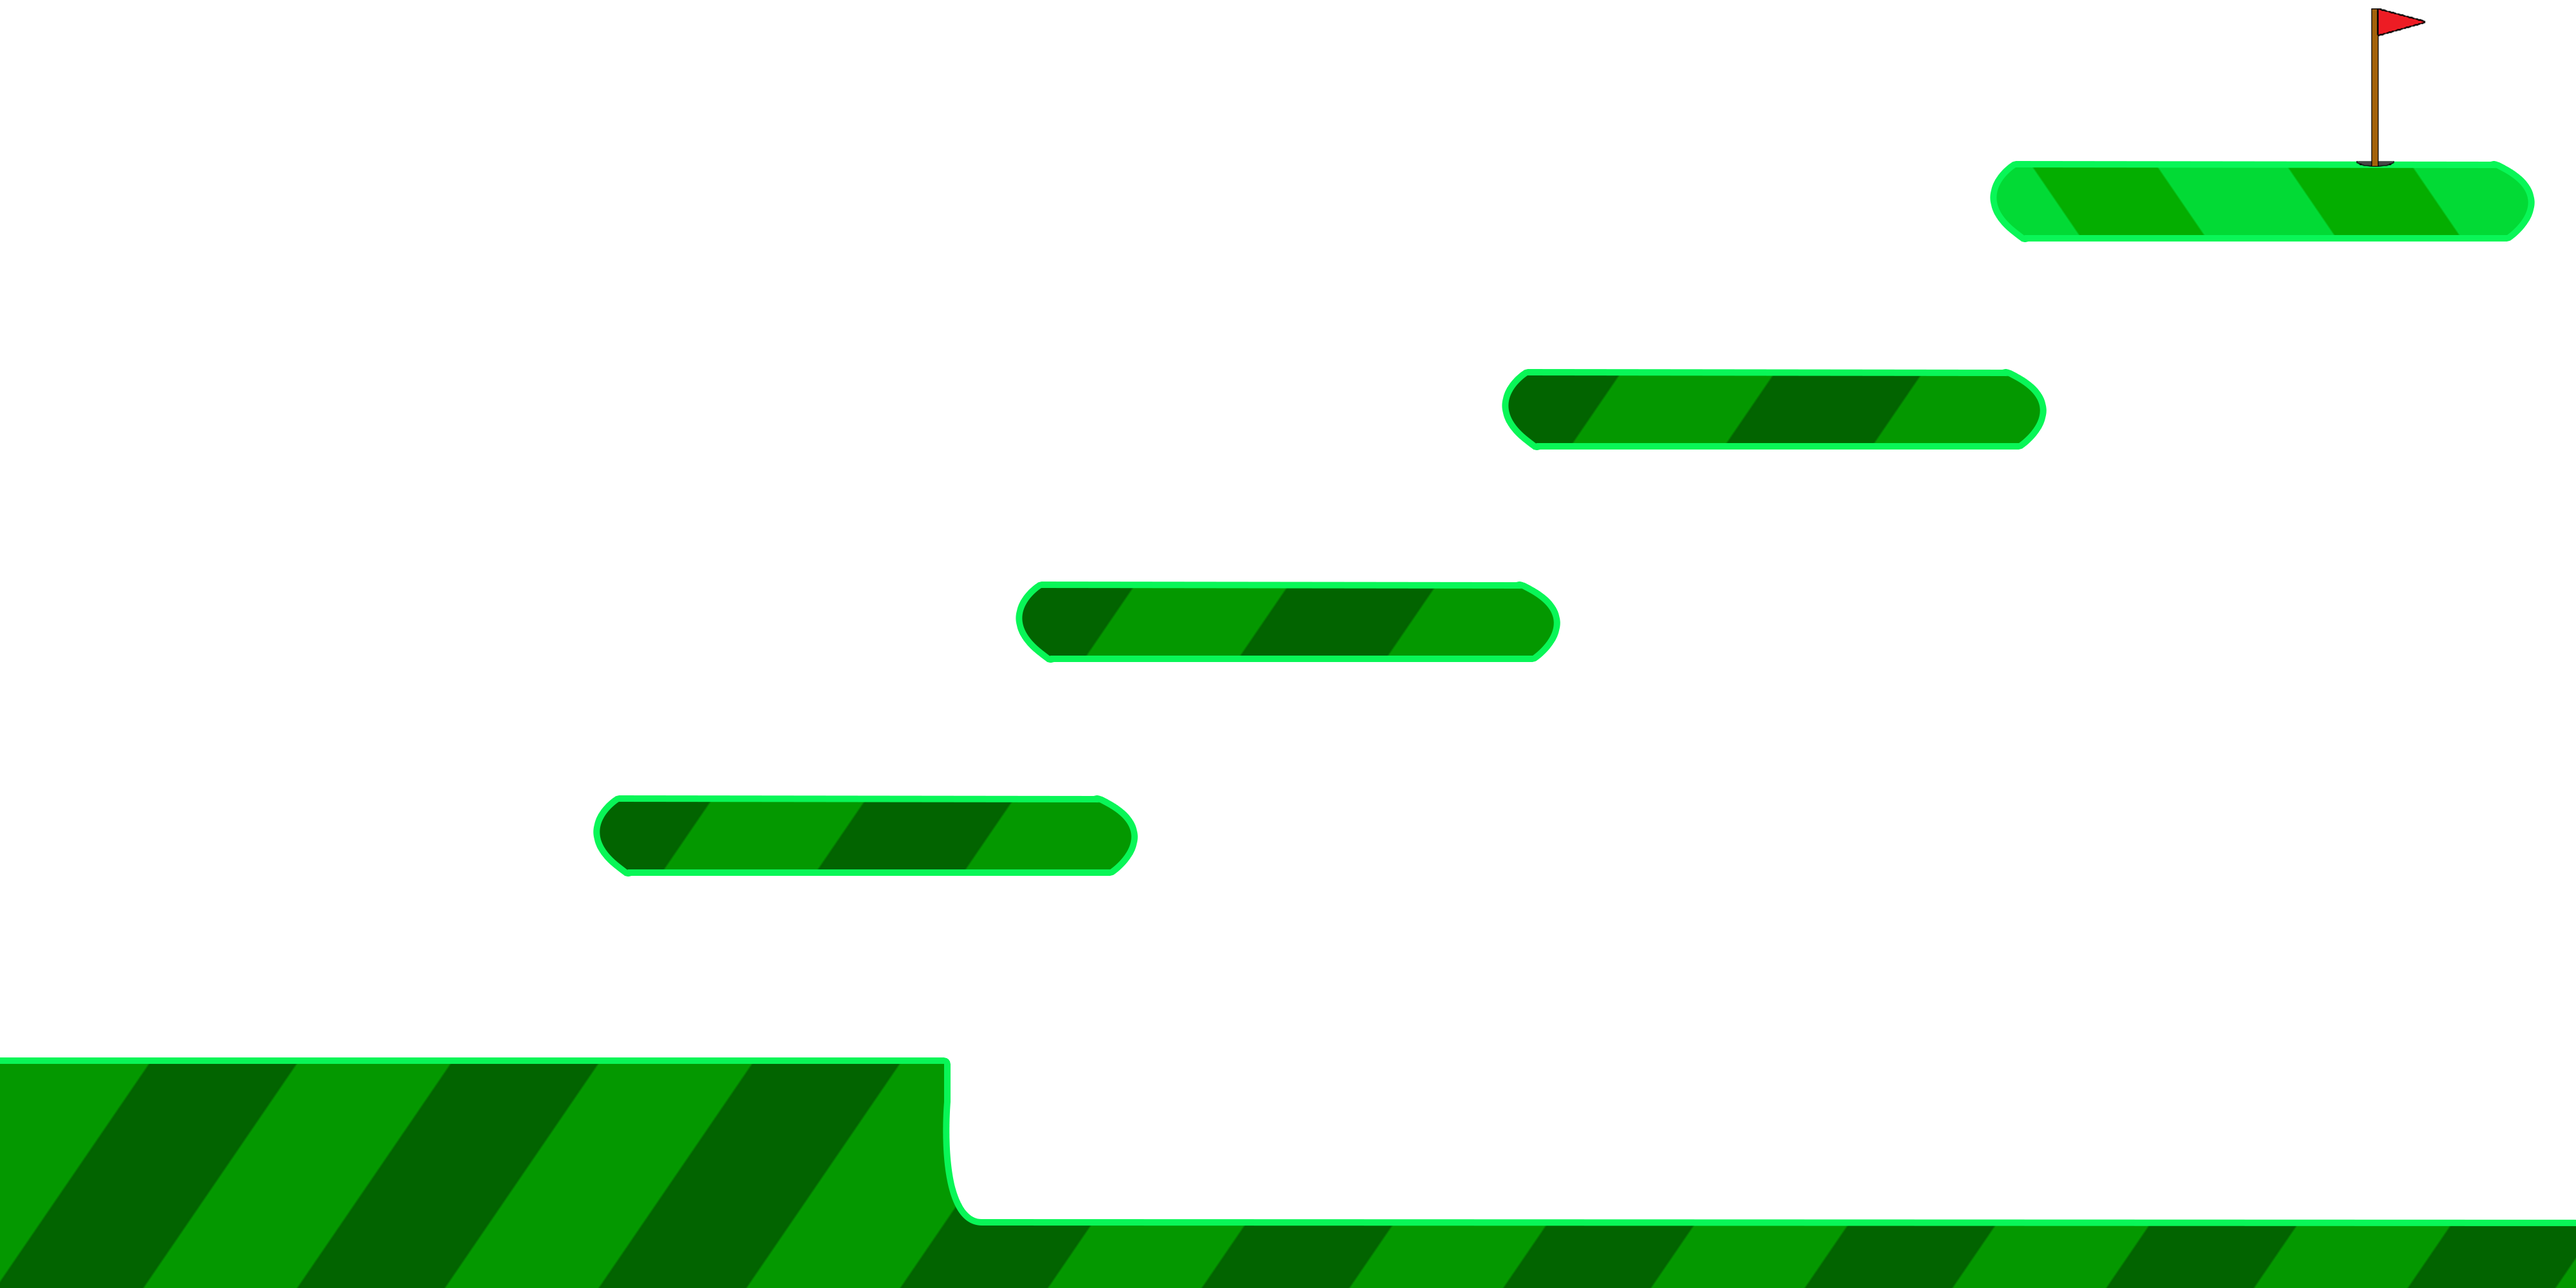
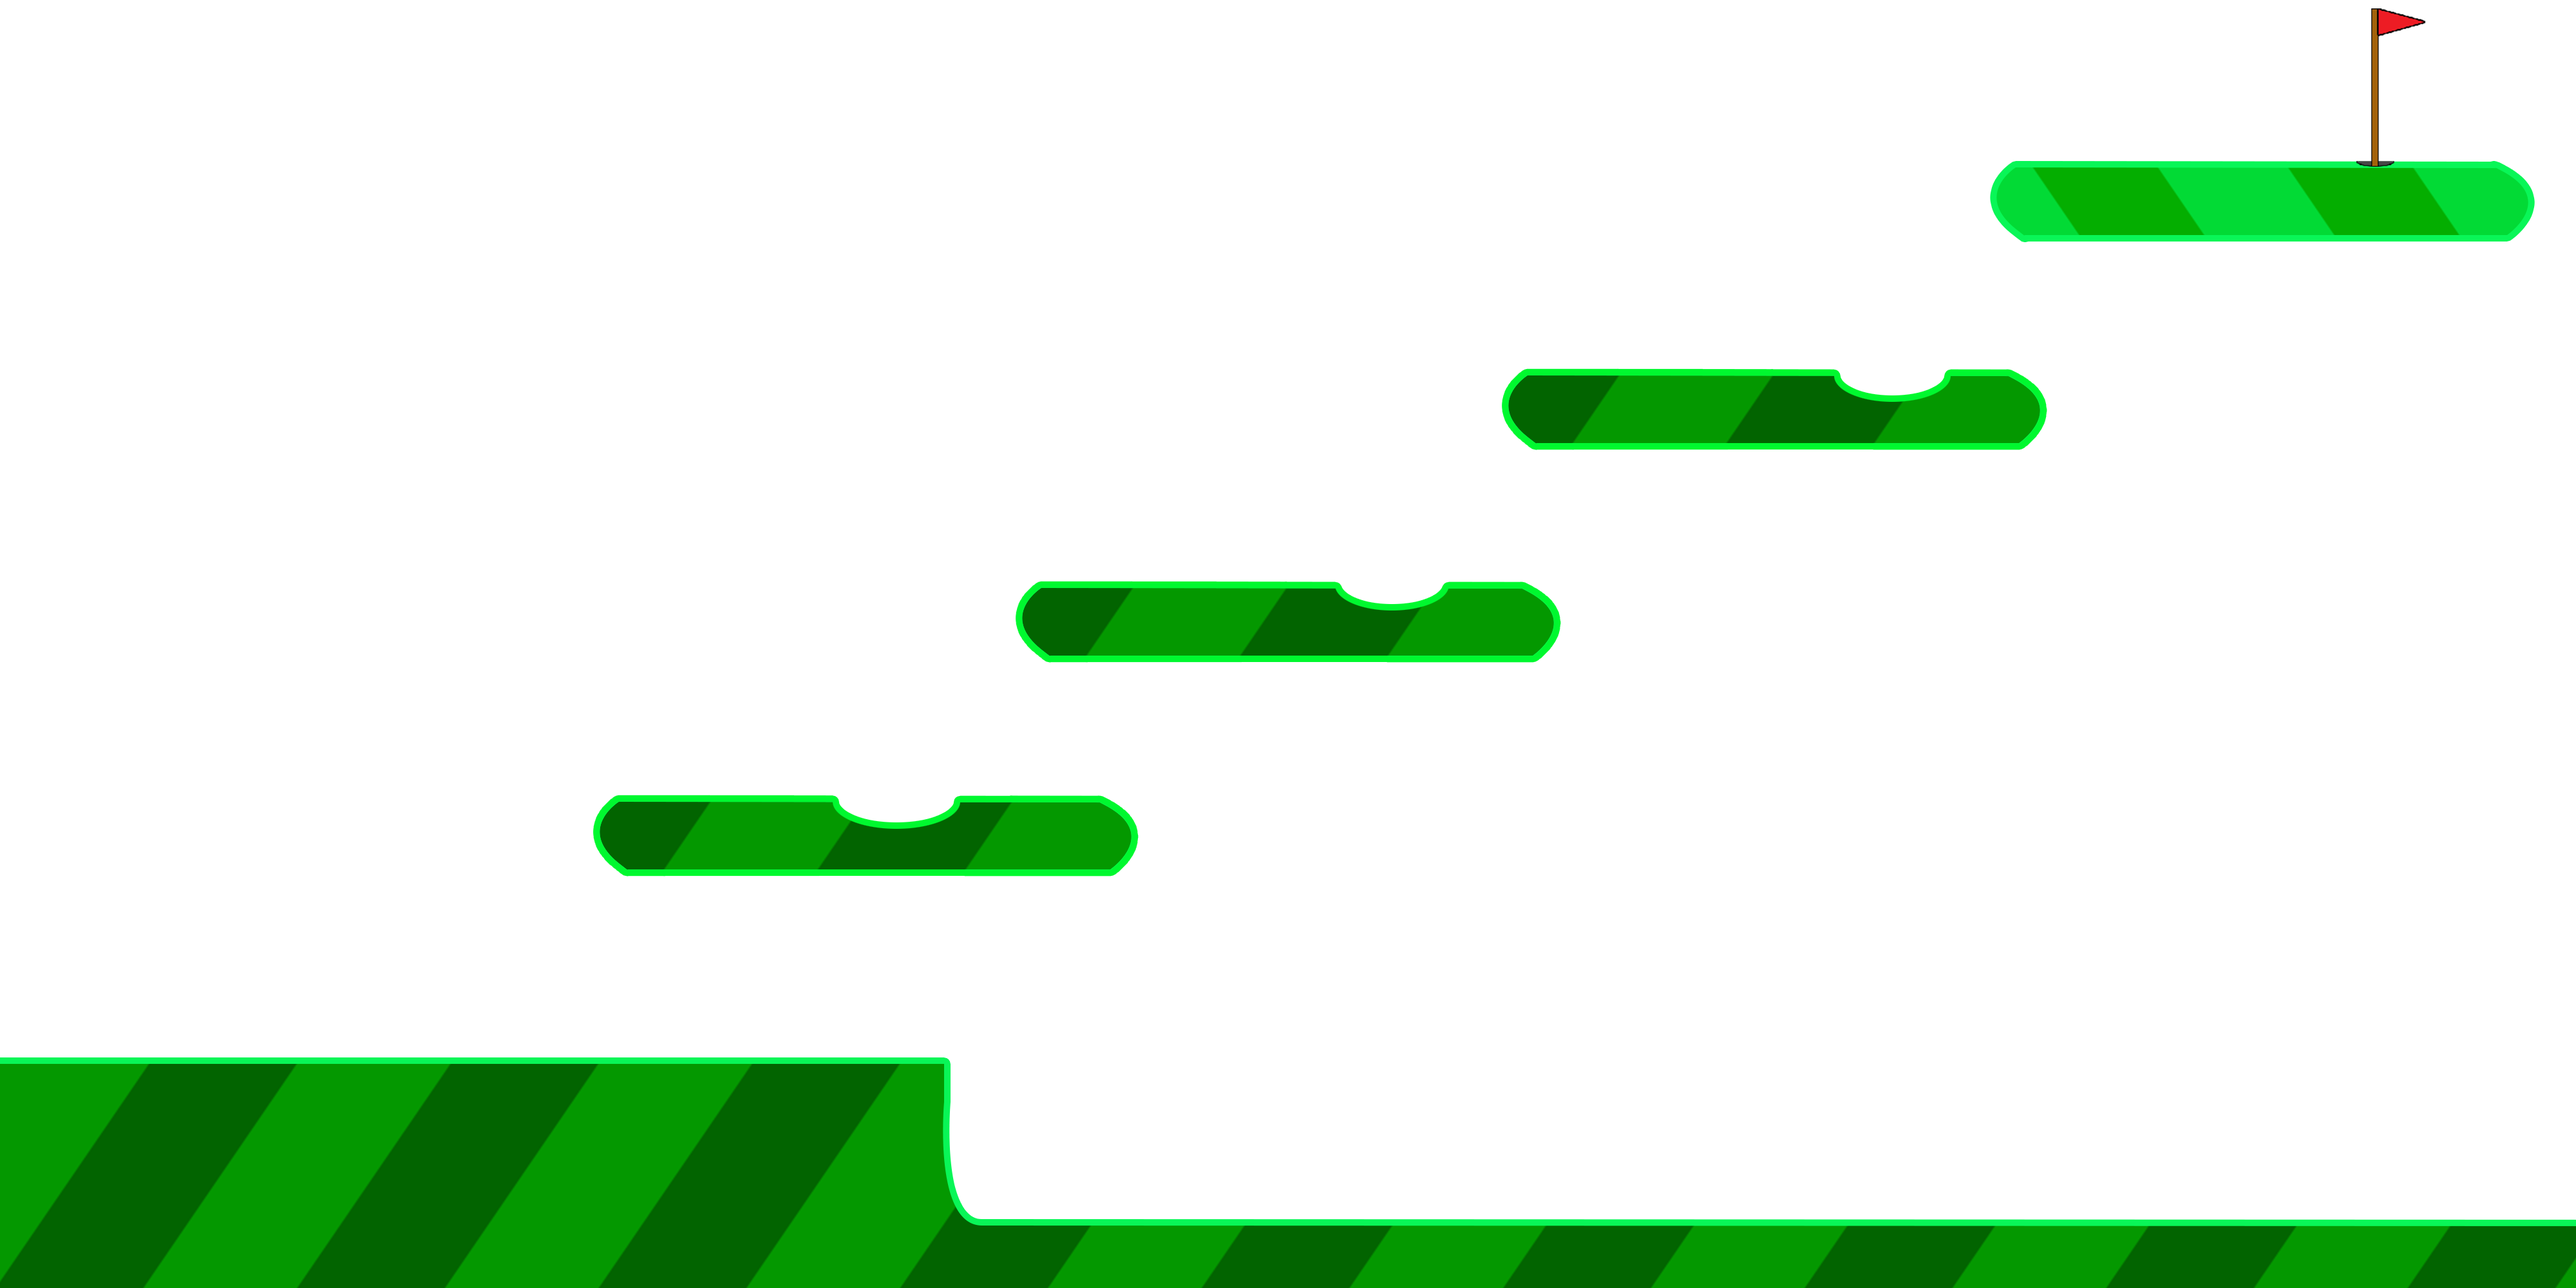
Made Level 8 Easier

diff --git a/States/Levels/Grass_Land/Level8.js b/States/Levels/Grass_Land/Level8.js
@@ -14,6 +14,25 @@ level8.prototype = {
         this.load.setPreloadSprite(loadingBar);
         this.game.load.image("Fairway", "Graphics/Level_Assets/Grass_Land/Level8/Level8.png");
 
+        this.game.load.image("Sand", "Graphics/Level_Assets/Sand.png");
+        this.game.load.spritesheet("Water", "Graphics/Level_Assets/Wave.png", 640, 360);
+        this.game.load.audio("Splash", "Music/Splash.ogg");
+        this.game.load.spritesheet("ButtonSq", "Graphics/Buttons/Button-Square.png", 150, 150);
+        this.game.load.spritesheet("Shot", "Graphics/Player/Swing.png", 140, 140);
+        this.game.load.image("Ball", "Graphics/Player/Ball.png");
+        this.game.load.physics("Physics", "Graphics/Level_Assets/Grass_Land/Physics.json");
+        //this.game.load.image("Fairway", "Graphics/Level_Assets/Grass_Land/Level1/Level1.png");
+        this.game.load.image("SwingButton", "Graphics/Buttons/Swing-Button.png");
+        this.game.load.image("PowerBar", "Graphics/Buttons/Power-Bar.png");
+        this.game.load.image("PowerFill", "Graphics/Buttons/Gradient.png");
+        this.game.load.image("Arrow", "Graphics/Player/Arrow.png");
+        this.game.load.image("Star", "Graphics/Level_Assets/star.png");
+        this.game.load.image("Block", "Graphics/Player/Block.png");
+        this.game.load.image("BackgroundP", "Graphics/Background/Background-Pause.png");
+        this.game.load.image("Scoreboard", "Graphics/Background/Scoreboard.png");
+        this.game.load.audio("GolfClap", "Music/GolfClap.ogg");
+        this.game.load.audio("GolfSwing", "Music/GolfSwing.ogg");
+
         this.game.world.setBounds(0, -500, 4000, 2500);
     },
 
@@ -63,6 +82,21 @@ level8.prototype = {
         Water.animations.add("Water");
         Water.animations.play("Water", 5, true);
 
+        Sand = this.game.add.sprite(1390, 1395, "Sand");
+        Sand.scale.setTo(0.1, 0.1);
+        this.game.physics.p2.enable(Sand);
+        Sand.body.static = true;
+
+        Sand2 = this.game.add.sprite(2155, 1060, "Sand");
+        Sand2.scale.setTo(0.1, 0.1);
+        this.game.physics.p2.enable(Sand2);
+        Sand2.body.static = true;
+
+        Sand3 = this.game.add.sprite(2940, 730, "Sand");
+        Sand3.scale.setTo(0.1, 0.1);
+        this.game.physics.p2.enable(Sand3);
+        Sand3.body.static = true;
+
         Block = this.game.add.sprite(3685, 435, "Block");
         Block.scale.setTo(6);
         this.game.physics.p2.enable(Block);
@@ -91,6 +125,22 @@ level8.prototype = {
         fairwayMaterial = this.game.physics.p2.createContactMaterial(ballMaterial, groundMaterial);
         fairwayMaterial.friction = 0.5;
         fairwayMaterial.restitution = 0.5;
+
+        sandMaterial = this.game.physics.p2.createMaterial("sandMaterial", Sand.body);
+        sandMaterial2 = this.game.physics.p2.createMaterial("sandMaterial2", Sand2.body);
+        sandMaterial3 = this.game.physics.p2.createMaterial("sandMaterial3", Sand3.body);
+
+        bunkerMaterial = this.game.physics.p2.createContactMaterial(ballMaterial, sandMaterial);
+        bunkerMaterial.friction = 30;
+        bunkerMaterial.restitution = 0;
+
+        bunkerMaterial2 = this.game.physics.p2.createContactMaterial(ballMaterial, sandMaterial2);
+        bunkerMaterial2.friction = 30;
+        bunkerMaterial2.restitution = 0;
+
+        bunkerMaterial3 = this.game.physics.p2.createContactMaterial(ballMaterial, sandMaterial3);
+        bunkerMaterial3.friction = 30;
+        bunkerMaterial3.restitution = 0;
 
         MusicControl = this.game.add.audio("Course1Music", 1, true);
         if (Music == true) MusicControl.play();
@@ -307,7 +357,7 @@ level8.prototype = {
     render: function(){
         this.game.debug.text(this.game.time.fps || '--', 2, 14, "#00ff00");
         //if (Ball != undefined) this.game.debug.spriteInfo(Ball, 32, 32);
-        //this.game.debug.inputInfo(32, 32);
+        this.game.debug.inputInfo(32, 32);
         //if (Ball != undefined) console.log(Ball.body.velocity.x, Ball.body.velocity.y);
     },
 

diff --git a/States/mainmenu.js b/States/mainmenu.js
@@ -952,7 +952,7 @@ mainMenu.prototype = {
         WaterHitText.destroy();
         TimesPlayedText.destroy();
         HighScoreBoard.destroy();
-        this.game.state.start("Level1")
+        this.game.state.start("Level8")
     },
 
     /**
